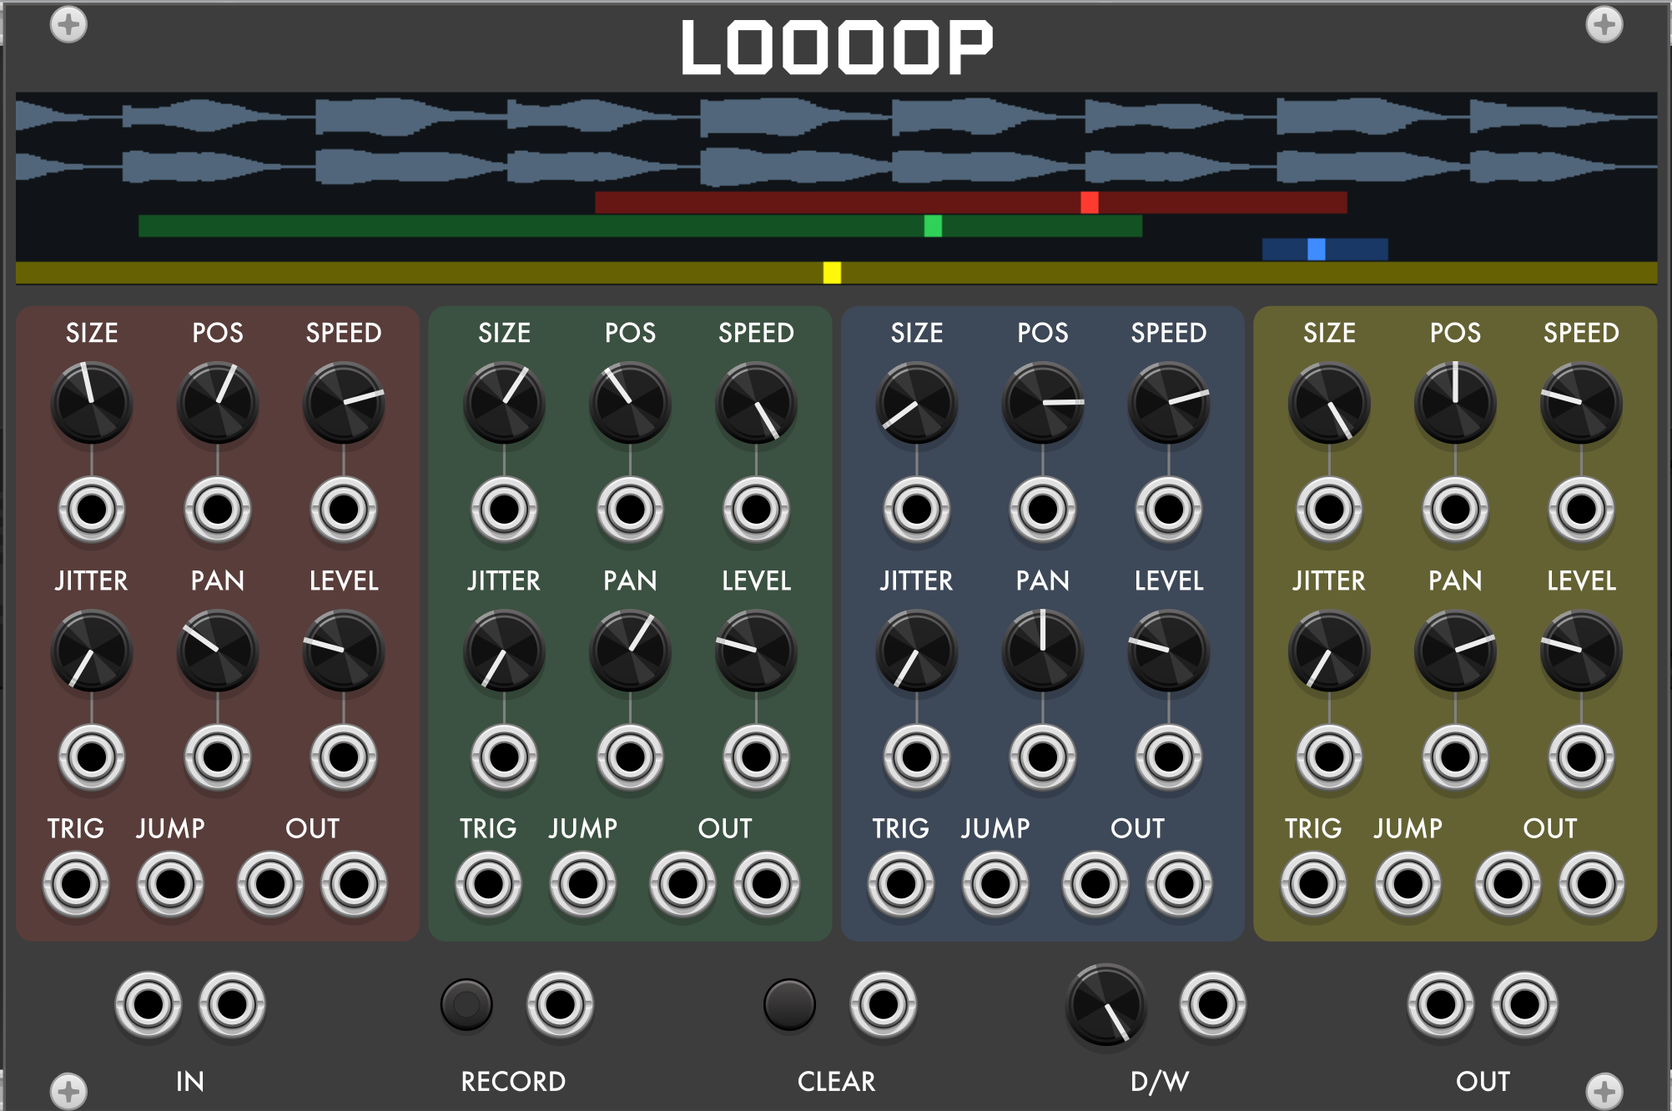
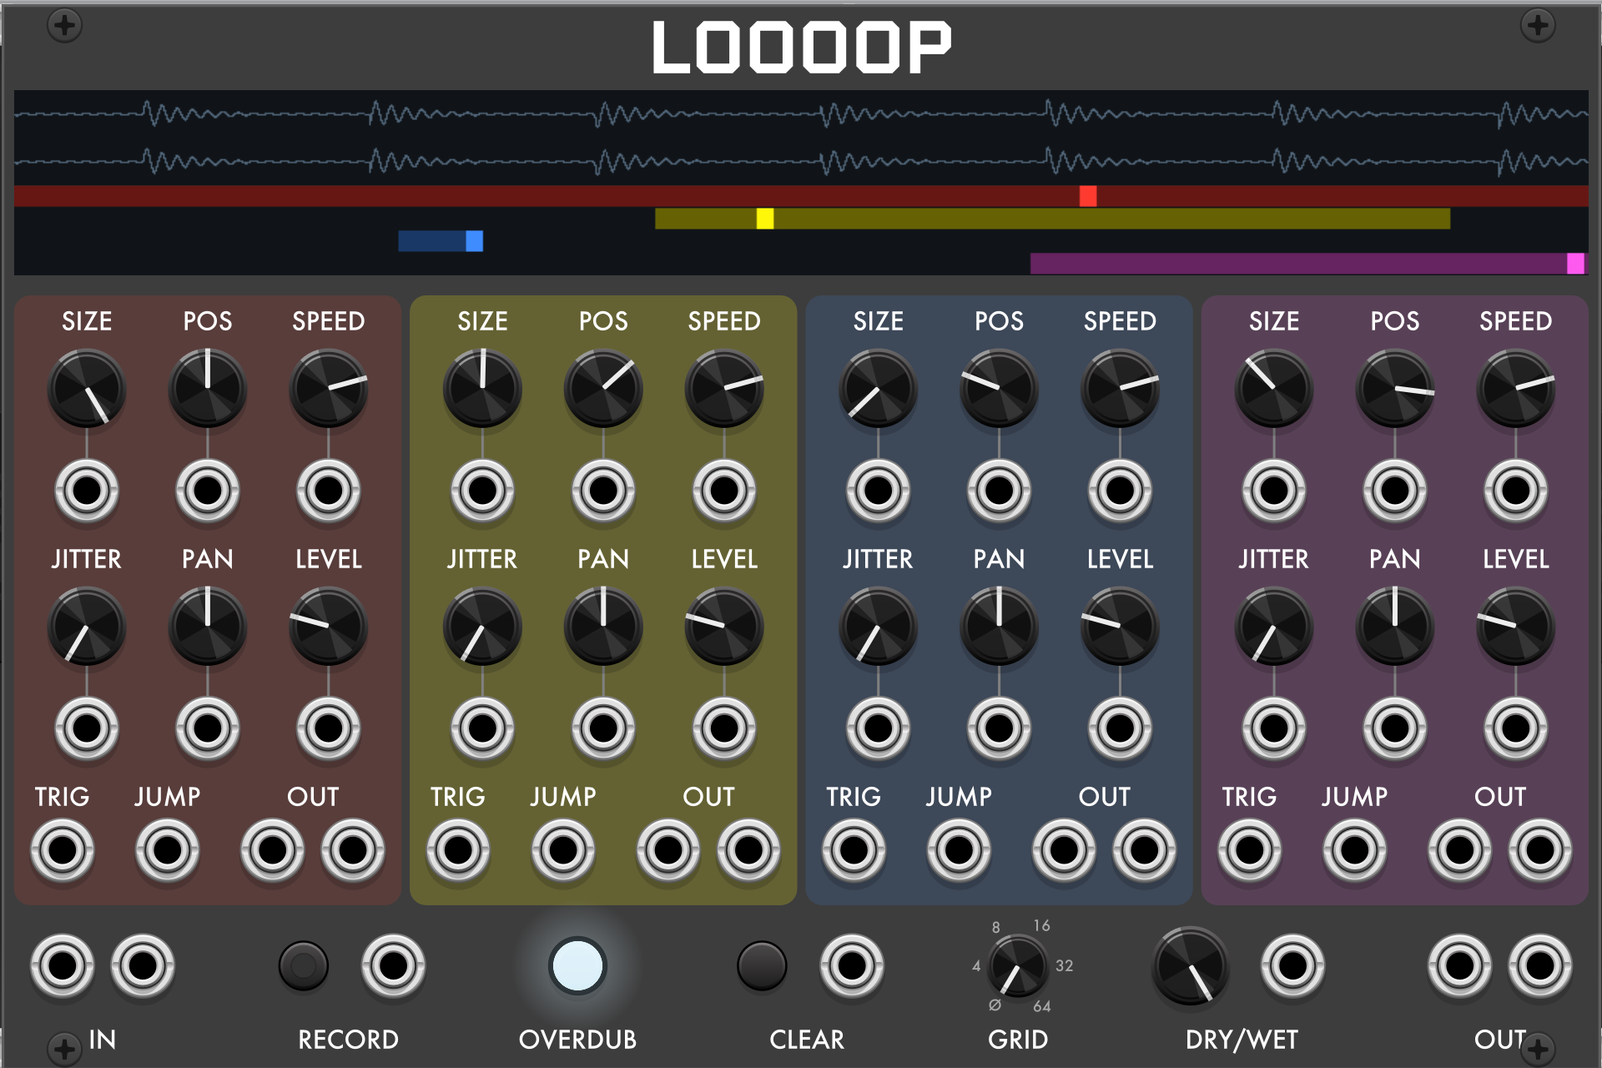
docs: refresh manual, README, changelog, and Loooop/Löp screenshots

diff --git a/Loooop.md b/Loooop.md
@@ -1,12 +1,10 @@
 # Loooop
 
-**Loooop** is a stereo, RAM-based looper for [VCV Rack](https://vcvrack.com) and the [4ms MetaModule](https://4mscompany.com/metamodule). You feed it audio, capture a loop, and then play that loop back through **four independent playheads** — each with its own speed, position, window size, level, jitter, and stereo pan. It's inspired by [Cutlasses Gloop](https://www.cutlasses.co.uk/product/gloop/).
-
-Think of it as a multi-head tape playground: one recorded phrase can become four different loops running at four different speeds and lengths, all layered into a single stereo mix.
+**Loooop** is a stereo, RAM-based looper for [VCV Rack](https://vcvrack.com) and the [4ms MetaModule](https://4mscompany.com/metamodule). You feed it audio, capture a loop, and then play that loop back with **four independent playheads,** each with its own speed, position, window size, level, jitter, and stereo pan. It's inspired by [Cutlasses Gloop](https://www.cutlasses.co.uk/product/gloop/). One recorded phrase can become four different loops running at four different speeds and lengths, all layered into a single stereo mix.
 
 <img src="screenshots/Loooop.png" alt="Loooop module" height="500">
 
-A smaller single-playhead version, **Löp**, is described [at the end](#löp).
+A smaller single-playhead version, **Löp**, is described [at the end](#löp) of this document.
 
 ---
 
@@ -14,8 +12,8 @@ A smaller single-playhead version, **Löp**, is described [at the end](#löp).
 
 1. **Patch some audio** into the **In L / In R** jacks at the bottom left. (Patch just one for mono — it feeds both sides.)
 2. **Click Record**. The light turns on and Loooop starts capturing.
-3. **Click Record again** to stop. The loop is now frozen and immediately starts playing back through all four heads.
-4. Turn **Dry/Wet** all the way toward *Wet* if you only want to hear the loop, and monitor the output from **Mix L / Mix R** (bottom right).
+3. **Click Record again** to stop. The loop is now frozen and immediately starts playing back through all four heads. Monitor the output from **Mix L / Mix R** (bottom right).
+4. Adjust the *Size* knobs, then experiment with *Position* and *Speed.*
 
 > Loops can be up to **60 seconds** long. If you keep recording past that, Loooop stops on its own.
 
@@ -23,35 +21,33 @@ A smaller single-playhead version, **Löp**, is described [at the end](#löp).
 
 ## The display
 
-The strip across the top shows the recorded audio as a waveform. While you record, it fills in left-to-right. Once you have a loop, you'll see up to four colored **playhead markers** sweeping across it — **red, green, blue, and yellow**, one per head; the context menu refers to the playheads by these colors — along with a shaded band showing each head's *window* (the slice of the loop that head is allowed to play). This is the easiest way to see what Position, Size, and Speed are actually doing.
+The strip across the top shows the recorded audio as a waveform. While you record, it fills in left-to-right. Once you have a loop, you'll see up to four colored **playhead markers** sweeping across it, along with a shaded band showing each head's *window* (the slice of the loop that head plays). This is the easiest way to see what Position, Size, and Speed are actually doing.
 
 ---
 
 ## The four playheads
 
-Every head reads from the **same recorded loop**, but each has its own set of controls. At a given time, you might hear:
+All four heads read from the **same recorded loop**, but each has its own controls. At a given time, you might hear:
 
 - Head 1 playing the whole loop forward at normal speed,
 - Head 2 playing a short slice near the end, sped up,
-- Head 3 running the loop backward and quietly,
+- Head 3 running a chunk of the loop backward,
 - Head 4 wandering randomly around the middle.
 
-All four are summed into the **Mix** output, each positioned in the stereo field by its own **Pan** knob. Each head also has its own pair of outputs if you want to process them separately.
+All four are summed into the **Mix** output, each positioned in the stereo field by its own **Pan** knob. Each head also has its own outputs for independent processing.
 
 ### Per-head knobs
 
 Each head has these controls, laid out in its own column:
 
-* **Speed**: Playback rate. `1` = normal, `2` = double speed / up an octave, `0` = frozen. Turn it **below zero to play backward**.
-* **Position**: *Where* in the loop this head plays — the center of its window. Sweep it to scrub through the recording.
 * **Size**: *How much* of the loop this head plays, from a tiny grain up to the whole thing. Small Size + moving Position = scrubbing/granular textures.
-* **Level**: This head's volume in the mix. (Defaults are set so all four heads at once add up to unity gain.)
-* **Jitter**: Randomness. At `0` the window stays put; turn it up and the head jumps to a new random spot in the loop each time it repeats.
+* **Position**: *Where* in the loop the head plays — the center of its window. Sweep it to scrub through the recording.
+* **Speed**: Playback rate. `1` = normal, `2` = double speed / up an octave, `0` = frozen. Turn it **below zero to play backward**.
+* **Jitter**: Random positioning. Turn it up from 0 and the head jumps to a different spot in the loop each time it repeats.
 * **Pan**: Where this head sits in the stereo **Mix**. It only affects the Mix outputs; the head's own **Out L / R** jacks are unchanged.
+* **Level**: This head's volume in the mix outputs. (Defaults are set so all four heads at once add up to unity gain.)
 
-*Position* and *Size* work together: **Size** sets the length of the slice, **Position** slides that slice around inside the loop. A head only ever loops within its own window.
-
-> **Note that Position and Jitter need room to move.** At the **default Size (fully clockwise = the whole loop)**, a head's window already fills the entire recording, so there is nowhere for it to slide. **Position and Jitter will seem to do nothing until you turn Size down.** Once Size is below maximum, Position slides the window through the loop and Jitter randomizes where that window starts on each repeat. (To jump the *playhead* around inside a full-size window instead, use the per-head **Jump** input.)
+> **Note that Position and Jitter need room to move.** At the **default Size (fully clockwise = the whole loop)**, a head's window already fills the entire recording, so there is nowhere for it to slide. **Position and Jitter will seem to do nothing until you turn Size down.** Once Size is below maximum, Position slides the window through the loop and Jitter randomizes where that window starts on each repeat. (To jump the *playhead* around inside a full-size window instead, use the **Jump** input — see below.)
 
 ---
 
@@ -59,18 +55,16 @@ Each head has these controls, laid out in its own column:
 
 The bottom row holds the global controls, left to right:
 
-- **Record** — Starts and stops recording. The first press records a fresh loop. Once a loop exists, pressing Record again **overdubs** — what happens to the audio already in the loop depends on the **Overdub** button (next). Punch-in and punch-out are softened with a \~5 ms ramp, so starting and stopping an overdub doesn't record a click into the loop. The red light shows when Loooop is recording.
-- **Overdub** — A five-way button that sets what an overdub pass does to the audio already in the loop. Click it to cycle through the modes; the LED color shows the current one:
-  - **Layer** (blue, the default) — sound-on-sound: each overdub pass turns the existing material down slightly (about 1 dB per pass), so older layers gradually sink underneath what you're playing now.
-  - **Decay** (amber) — like Layer, but older layers also lose a little high end on every pass — tape-style degradation the longer you keep overdubbing.
-  - **Add** (green) — new audio sums with what's there at full level, forever. The classic build-up-layers overdub.
-  - **Replace** (red) — new audio **overwrites** the loop as the record head passes. Punch in a new phrase over an old one.
-  - **Lock** (purple) — overdubbing off. The Record button does nothing while a loop exists — the loop is untouchable until you **Clear** it or leave Lock.
-
-  Layer and Decay only act **while you're recording** — a loop that's just playing back never fades on its own.
-- **Clear** — Erases the loop and starts over.
+- **Record** — Starts and stops recording. The first press records a fresh loop. Once a loop exists, pressing Record again **overdubs** — what happens to the audio already in the loop depends on the **Overdub** button. The red light shows when Loooop is recording.
+- **Overdub** — A five-way button that selects one of the overdub modes:
+    - **Layer** (blue, the default) — sound-on-sound: each overdub pass turns the existing material down slightly (about 1 dB per pass), so older layers gradually sink underneath more recent layers.
+    - **Decay** (amber) — like Layer, but older layers also lose a little high end on every pass, giving the effect of tape-style degradation.
+    - **Add** (green) — new audio sums with what's there at full level, forever, so you'll get clipping and distortion after a while.
+    - **Replace** (red) — new audio **overwrites** the loop as the record head passes. Use this to punch in a new phrase over an old one.
+    - **Lock** (purple) — overdubbing off. The Record button does nothing while a loop exists — the loop is untouchable until you **Clear** it or switch to a different mode.
+- **Clear** — Erases the loop.
 - **Grid** — Off (the default), 4, 8, 16, 32, or 64. When set, the loop is divided into that many equal segments, shown as vertical bars on the display, and every head's window snaps to them: **Size** becomes a whole number of segments and **Position** (including CV and **Jitter** offsets) lands on segment boundaries. Record a drum loop, set Grid to 16, and heads slice it cleanly on the beat.
-- **Dry/Wet** — Global blend between your incoming audio (dry) and the loop playback (wet) at the Mix output. Fully clockwise = loop only.
+- **Dry/Wet** — Sets the blend between incoming audio (dry) and loop playback (wet) at the Mix output. Fully clockwise = loop only.
 
 > **On MetaModule**, Overdub and Grid live in the options list (scroll down past the jacks) instead of on the panel, and Overdub is split into two settings: **Overdub** (On/Off — Off is Lock) and **Write mode** (Add / Replace / Layer / Decay).
 
@@ -78,7 +72,7 @@ The bottom row holds the global controls, left to right:
 
 ## Jacks and CV
 
-Nearly every knob has a **CV input** right below or beside it, and a full ±10 V sweep on a CV input covers that knob's entire range (the CV is added to the knob setting).
+Nearly every knob has an associated **CV input.** Positive or negative CV is added to the knob setting.
 
 **Global jacks (bottom row):**
 
@@ -95,24 +89,20 @@ Nearly every knob has a **CV input** right below or beside it, and a full ±10 V
 
 ### Trigger jacks and one-shot mode
 
-By default, a trigger at a head's **Trig** input simply restarts that head at the beginning of its window — use it to re-sync heads to a clock.
+By default, a trigger at a head's **Trig** input restarts that head at the beginning of its window — use it to sync heads to a clock.
 
-Checking a playhead under **One-shot on trigger** in the context menu changes that: the head stays silent until triggered, then plays **through its window exactly once and stops**, ending with a short fade so it doesn't click. This turns a head into a sample-triggered one-shot player.
-
-While a one-shot head is waiting for a trigger — armed but not yet fired, or finished with its pass — its lane on the display **dims**: a faint window bar with a dimmed marker means the head is silent on purpose. If a playhead ever seems dead (no sound, no movement, knobs doing nothing), check whether its lane is dimmed — it's probably in one-shot mode with nothing patched into its Trig jack.
+Checking a playhead under **One-shot on trigger** in the context menu changes that: the head stays silent until triggered, then plays **through its window exactly once and stops**, ending with a short fade so it doesn't click. This turns a head into a sample-triggered one-shot player. While a one-shot head is waiting for a trigger but not playing, its lane on the display **dims.** If a playhead ever seems dead, it's probably in one-shot mode.
 
 ---
 
 ## Context menu
 
-You can find these options by right-clicking the panel in VCV Rack or scrolling down to Options in MetaModule. The per-playhead options name each playhead after its marker color on the display: the **Red**, **Green**, **Blue**, and **Yellow** playheads.
+You can find these options by right-clicking the panel in VCV Rack or scrolling down to Options in MetaModule:
 
-- **Exclude from Grid → (playhead)** — lets that playhead move freely even while **Grid** is on: its Size, Position, and Jitter stop snapping to segment boundaries, while the other playheads stay locked to the grid. Good for one drifting, texture-making playhead over an otherwise beat-sliced loop.
-- **One-shot on trigger → (playhead)** — check a playhead to put it in one-shot mode (see above). Unchecked (the default), a trigger just restarts the playhead at the start of its window.
-- **Speed CV = V/Oct → (playhead)** — makes that playhead's Speed CV input track **1 volt per octave**, so you can play the loop chromatically from a keyboard or sequencer (speed then ranges much wider, up to ±16×).
+- **Exclude from Grid** — lets a given playhead move freely even while **Grid** is on. Good for one drifting, texture-making playhead over an otherwise beat-sliced loop.
+- **One-shot on trigger** — check a playhead to put it in one-shot mode (see above). Unchecked (the default), a trigger just restarts the playhead at the start of its window.
+- **Speed CV = V/Oct** — makes a playhead's Speed CV input track **1 volt per octave**, so you can play the loop chromatically from a keyboard or sequencer (speed then ranges much wider, up to ±16×).
 - **Crossfade** — When on (the default), Loooop applies a tiny (\~5 ms) fade at each loop's wrap-around point to hide clicks, and gives **one-shot** passes a matching fade-out at the end instead of a hard stop. Turn it off if you want the raw, seam-exact repeat (useful for rhythmic clicks or very short grains).
-
-> **On MetaModule** the per-playhead options appear in the options list numbered rather than by color — 1 = Red, 2 = Green, 3 = Blue, 4 = Yellow (e.g. "Grid 1 exclude" is the Red playhead's Exclude from Grid) — and one-shot mode is a two-choice "Trig N mode" setting (*Loop start* / *One-shot*).
 
 ---
 
@@ -122,13 +112,13 @@ You can find these options by right-clicking the panel in VCV Rack or scrolling 
 - **Granular cloud:** shrink every head's **Size** right down, crank **Jitter**, and slowly sweep **Position**.
 - **Stutter machine:** patch an LFO or sequencer into a head's **Jump** input.
 - **Wide moving field:** spread the four heads across the stereo image with their **Pan** knobs, or patch slow, phase-offset LFOs into the Pan CVs so they drift around each other.
-- **Rhythmic re-slicer:** record a drum loop, set each head to **One-shot** with a small window, and trigger them from a sequencer to rearrange the beat, and turn on **Grid** so every slice lands exactly on a division.
-- **Separate processing:** take each head's own **Out L/R** into different reverbs, filters, or panners instead of using the combined Mix.
+- **Rhythmic re-slicer:** record a drum loop and set each head to **One-shot** with a small window. Trigger them from a sequencer to rearrange the beat, and turn on **Grid** so every slice lands exactly on a division.
+- **Separate processing:** take each head's own **Out L/R** into different reverbs, filters, or panners instead of using the combined Mix. Turn **Level** all the way CCW to remove a playhead from the Mix. 
 
 ---
 
 ## Löp
 
-**Löp** is Loooop with a **single playhead** instead of four. It works exactly like one head of Loooop — including the note above: turn **Size** down before **Position** and **Jitter** have anything to do. Löp has Loooop's **Overdub** button (same five modes: Layer, Decay, Add, Replace, Lock) and **Grid** knob on its panel; its context menu carries its playhead's **One-shot on trigger**, **Speed CV = V/Oct**, and **Crossfade** — all with the same behavior as Loooop's.
+**Löp** is Loooop with a **single playhead** instead of four. It works exactly like one head of Loooop.
 
 <img src="screenshots/Lop.png" alt="Löp module" height="500">

diff --git a/CHANGELOG.md b/CHANGELOG.md
@@ -1,58 +1,15 @@
 # Changelog
 
-All notable changes to **Robot Boy** are documented here. The version in
-`plugin.json` is the source of truth; adjust the heading below if you bump it
-before tagging.
-
 ## [2.0.1] — 2026-07-11
 
-First public release of the combined **Robot Boy** plugin for
-[VCV Rack](https://vcvrack.com) and the [4ms MetaModule](https://4mscompany.com/metamodule),
-collecting four modules from one source tree.
+Initial release.
 
-### Loooop / Löp — stereo RAM looper (four playheads / single playhead)
-- Overdub write modes: **Add, Replace, Layer, Decay**, plus a **Lock** state that
-  makes Record a no-op on the loop contents.
-- Punch-in/out write-gain ramps (click-free overdub start/stop).
-- Catmull-Rom playback interpolation; one-shot end fade.
-- Smoothed level, pan, and dry/wet (~2 ms).
-- **Grid** quantization (Off / 4 / 8 / 16 / 32 / 64) on both modules, with
-  per-playhead **Exclude from Grid**.
-- Panel rework: five-state **Overdub** LED button and a **Grid** knob (Loooop and
-  Löp), commands-first context menu, color-named playheads, dark screws, purple
-  Löp loop-display strip.
-- Static-waveform display caching.
-- Sample-rate changes now **preserve a recorded loop** on both VCV and MetaModule.
-- Fixes: stale one-shot retrigger ramp on a fresh trigger; Decay tone-filter seed
-  when switching write mode mid-pass.
+Robot Boy is a plugin for [VCV Rack](https://vcvrack.com) and the
+[4ms MetaModule](https://4mscompany.com/metamodule), collecting four modules:
 
-> **Patch compatibility:** Löp patches/presets saved before this release load
-> with Overdub/Grid scrambled (the old Write-mode param was absorbed and IDs
-> shifted). Re-save any Löp patches you keep.
-
-### MF-20 — Korg MS-20-style filter
-- OTA and Korg35 filter revisions with drive.
-- C1 quadratic knees on the K35 forward clip (less aliasing at high drive/cutoff).
-- Cutoff CV can now sweep **below 20 Hz down to the ~1 Hz core floor**, so deep
-  negative CV nearly closes the filter (the knob range still floors at 20 Hz).
-
-### Particules — granular texture processor
-- Scale-aware **pitch lock** with root selection.
-- Grain-count LED and live input-level readout.
-- Grain-trigger pulse on the R output; dry-follows-gain option.
-- Reverb idle sleep (CPU drop when reverb sits at 0).
-- Context-menu **undo** (VCV).
-- Grain-pool overflow now **steals the oldest grain** so the newest events always
-  sound at saturation, instead of dropping the trigger.
-- NaN-hardening across CV ingestion (density, pitch, position, feedback, dry/wet,
-  reverb), with liveness and recovery pinned by tests.
-
-### Packaging & build
-- One source tree builds both the VCV Rack plugin and the MetaModule
-  `RobotBoy.mmplugin`.
-- `plugin.json` gains `sourceUrl` and `manualUrl`; per-module tags and
-  descriptions for the VCV Library.
-- Version is single-sourced from `plugin.json` (MetaModule CMake derives it);
-  `-std=c++20` scoped to C++ only; `make clean` now removes escaped object files.
+- **Loooop** — stereo RAM looper with four independent playheads
+- **Löp** — single-playhead version of Loooop
+- **MF-20** — Korg MS-20-style filter (OTA and Korg35 revisions)
+- **Particules** — granular texture processor
 
 [2.0.1]: https://github.com/gabriel-roth/RobotBoy/releases/tag/v2.0.1

diff --git a/README.md b/README.md
@@ -1,13 +1,11 @@
 # Robot Boy
 
-**Robot Boy** is a plugin for [VCV Rack](https://vcvrack.com) and the [4ms MetaModule](https://4mscompany.com/metamodule). It collects several modules into one package:
+**Robot Boy** is a plugin for [VCV Rack](https://vcvrack.com) and the [4ms MetaModule](https://4mscompany.com/metamodule). It currently contains four modules: 
 
-| Module | What it is | Docs |
-|--------|------------|------|
-| **Loooop** | A stereo RAM looper with four independent playheads. | [Loooop.md](Loooop.md) |
-| **Löp** | The single-playhead version of Loooop. | [Loooop.md](Loooop.md#löp) |
-| **MF-20** | Korg MS-20 filter emulation (OTA and Korg35 revisions). | [MF20.md](MF20.md) |
-| **Particules** | A granular texture processor based on Mutable Instruments Beads. | [Particules.md](Particules.md) |
+* **[Loooop](Loooop.md):** A stereo looper with four independent playheads. 
+* **[Löp](Loooop.md#löp):** Loooop's little sibling, with just one playhead. 
+* **[MF-20](MF20.md):** A Korg MS-20-style filter.
+* **[Particules](Particules.md):** A granular texture processor based on Mutable Instruments Beads.
 
 ---
 
@@ -15,26 +13,22 @@
 
 <img src="screenshots/Loooop.png" alt="Loooop module" height="300">
 
-A stereo RAM looper: capture a loop, then play it back through four independent playheads, each with its own speed, position, window size, level, jitter, and pan. → [**Full documentation**](Loooop.md)
+A stereo RAM looper: capture a loop, then play it back with four independent playheads, each with its own speed, position, window size, level, jitter, and pan. Get granular glitches and backward drones simultaneously→ [**Full documentation**](Loooop.md)
 
 ## Löp
 
 <img src="screenshots/Lop.png" alt="Löp module" height="300">
 
-The single-playhead version of Loooop, for when you just want one stereo loop. → [**Full documentation**](Loooop.md#löp)
+The single-playhead version of Loooop, for when you just need a single loop. → [**Full documentation**](Loooop.md#löp)
 
 ## MF-20
 
 <img src="screenshots/MF-20.png" alt="MF-20 module" height="300">
 
-A Korg MS-20 filter emulation with switchable OTA and Korg35 revisions, a shared **Total** cutoff bus, and a Drive stage. Polyphonic. → [**Full documentation**](MF20.md)
+An emulation of the Korg MS-20 filter (switchable between the OTA and Korg35 revisions). The cutoffs for the HP and LP stages can be controlled independently or from the shared Total bus. Optional added Drive. → [**Full documentation**](MF20.md)
 
 ## Particules
 
 <img src="screenshots/Particules.png" alt="Particules module" height="300">
 
-A granular texture processor based on Mutable Instruments Beads (via No Such Texture): grains with time, position, size, shape, pitch, and density, each with an attenurandomizer, plus reverb and FREEZE. → [**Full documentation**](Particules.md)
-
----
-
-*Released under the MIT license.*
+A granular texture processor based on Mutable Instruments Beads. → [**Full documentation**](Particules.md)
